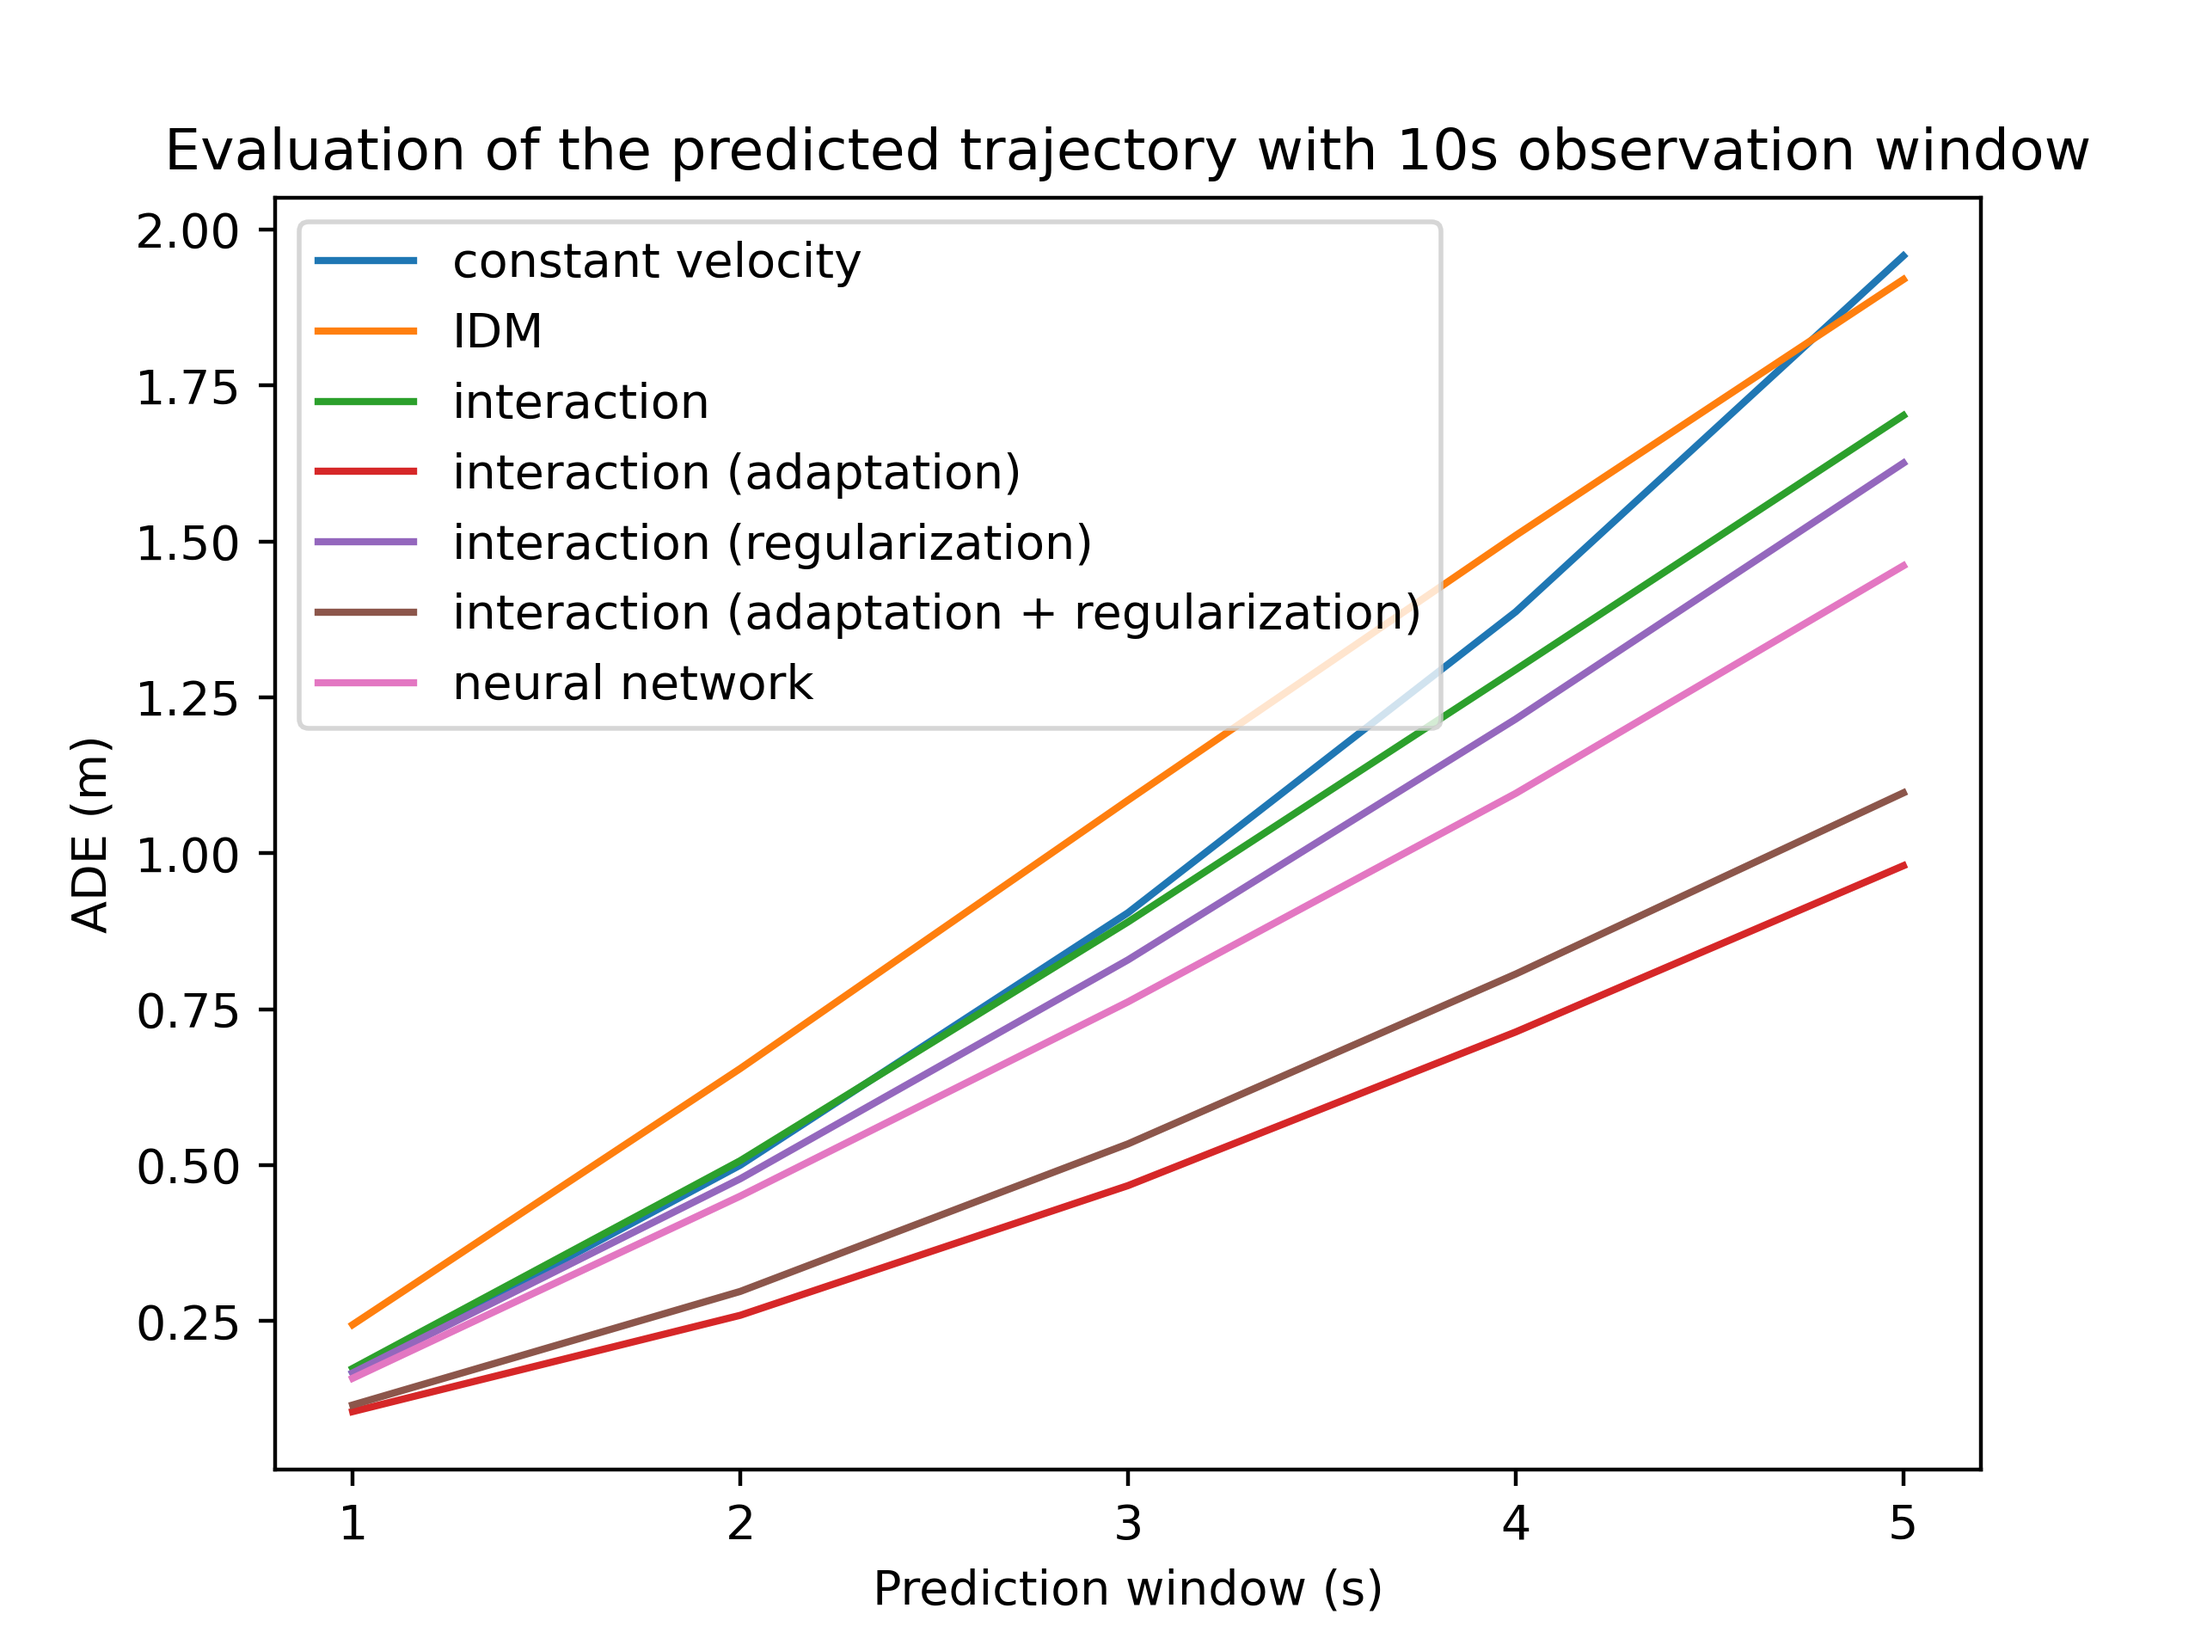
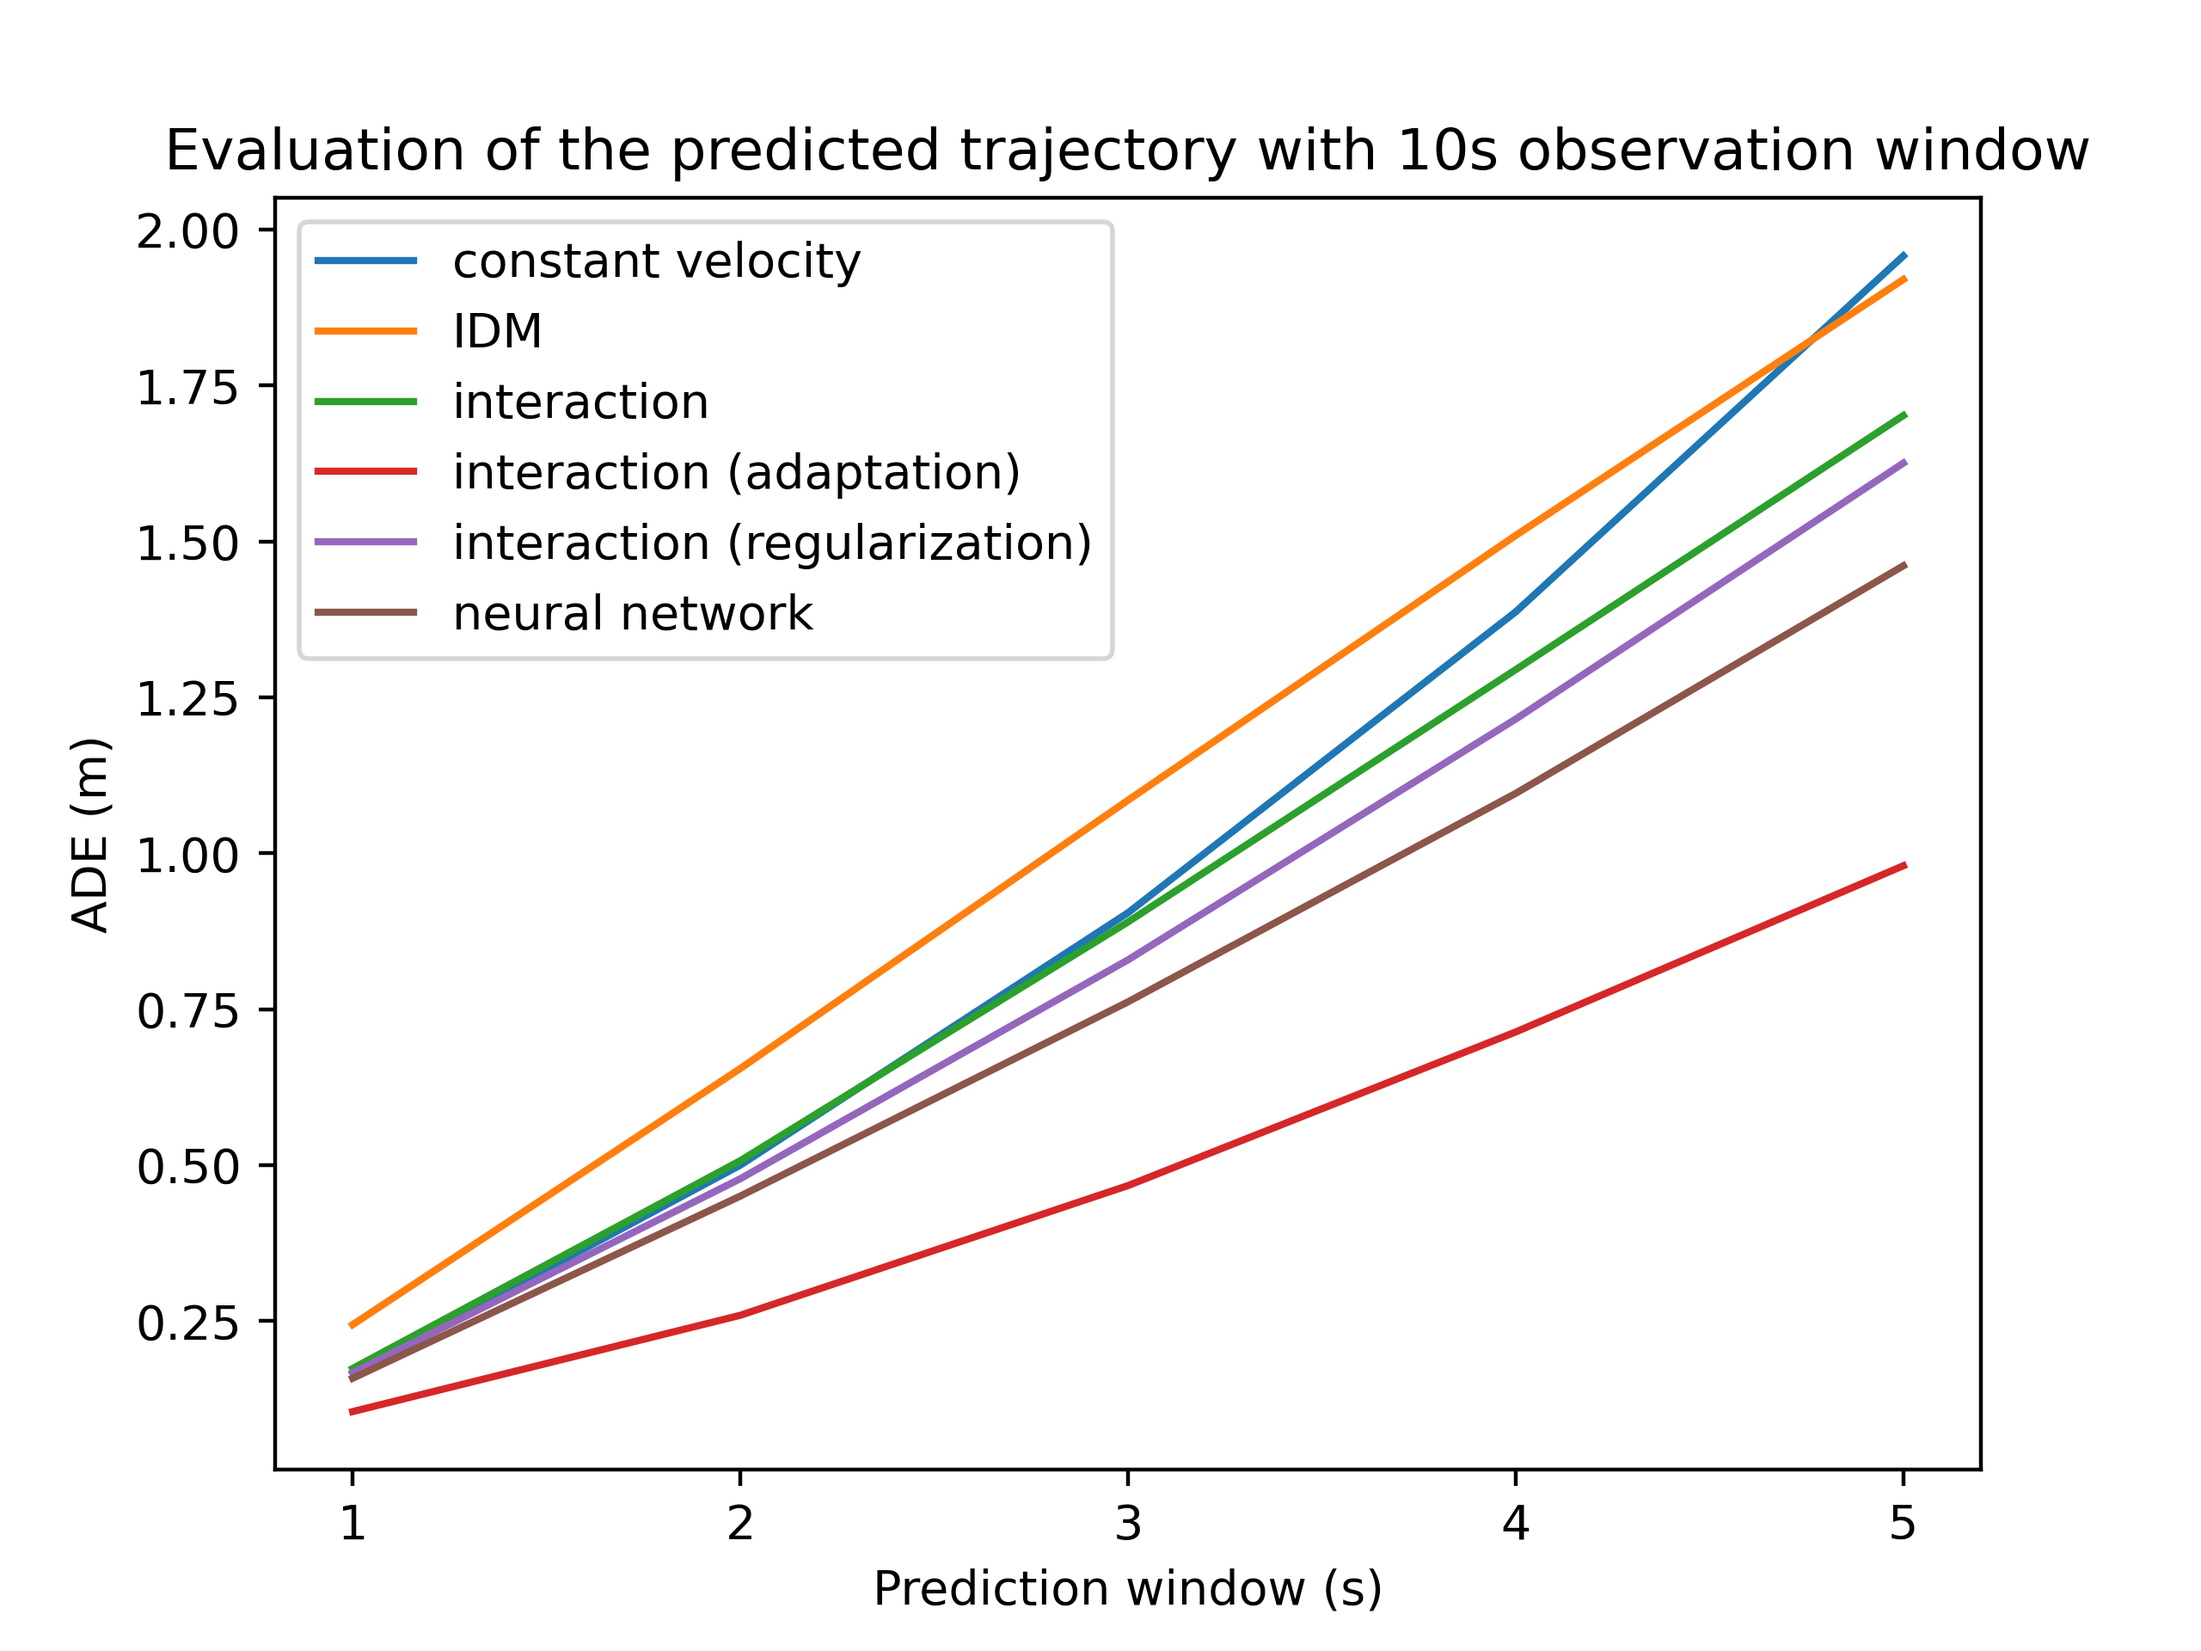
temp save before online adaptation

diff --git a/pretraj/vehicle.py b/pretraj/vehicle.py
@@ -8,20 +8,12 @@ class State(object):
 
 
 class Vehicle(object):
-  def __init__(
-      self, 
-      vehicle_id, 
-      frame_id, 
-      vehicle_length, 
-      # acc_vector,
-      vel_vector, 
-      space_headway_vector,
-      **argvs
-  ):
+  def __init__(self, vehicle_id, frame_id, 
+               vehicle_length, vel_vector, 
+               space_headway_vector, **argvs):
     self.vehicle_id = vehicle_id
     self.frame_id=frame_id
     self.vehicle_length=vehicle_length
-    # self.acc_vector=np.array(acc_vector)
     self.vel_vector=np.array(vel_vector)
     self.acc_vector=np.diff(self.vel_vector, append=0) / .1
     self.space_headway_vector=np.array(space_headway_vector)

diff --git a/pretraj/experiment.py b/pretraj/experiment.py
@@ -129,7 +129,7 @@ def experiment_runtime():
 if __name__ == '__main__':
   # if 'checkpoint' not in os.listdir('pretraj') or \
   #    'pretrain_model.pt' not in os.listdir(pretraj.CHECKPOINT_DIR):
-  draw_only = True
+  draw_only = False
   if not draw_only:
     models.pretrain_neural_network()
   experiment_fixed_observe(draw_only)

diff --git a/pretraj/models.py b/pretraj/models.py
@@ -20,7 +20,6 @@ def cache(fn):
       adapt: bool,
       **argvs: Any
   ) -> Callable:
-    # print(cache_info)
     key = (ego.vehicle_id, pre.vehicle_id, observe_frames, adapt)
     if key in cache_info and not adapt:
       return cache_info[key]

diff --git a/pretraj/simulate.py b/pretraj/simulate.py
@@ -13,7 +13,7 @@ models_list = [
     'interaction',
     'interaction (adaptation)',
     'interaction (regularization)',
-    'interaction (adaptation + regularization)',
+    # 'interaction (adaptation + regularization)',
     'neural network'
 ]
 
